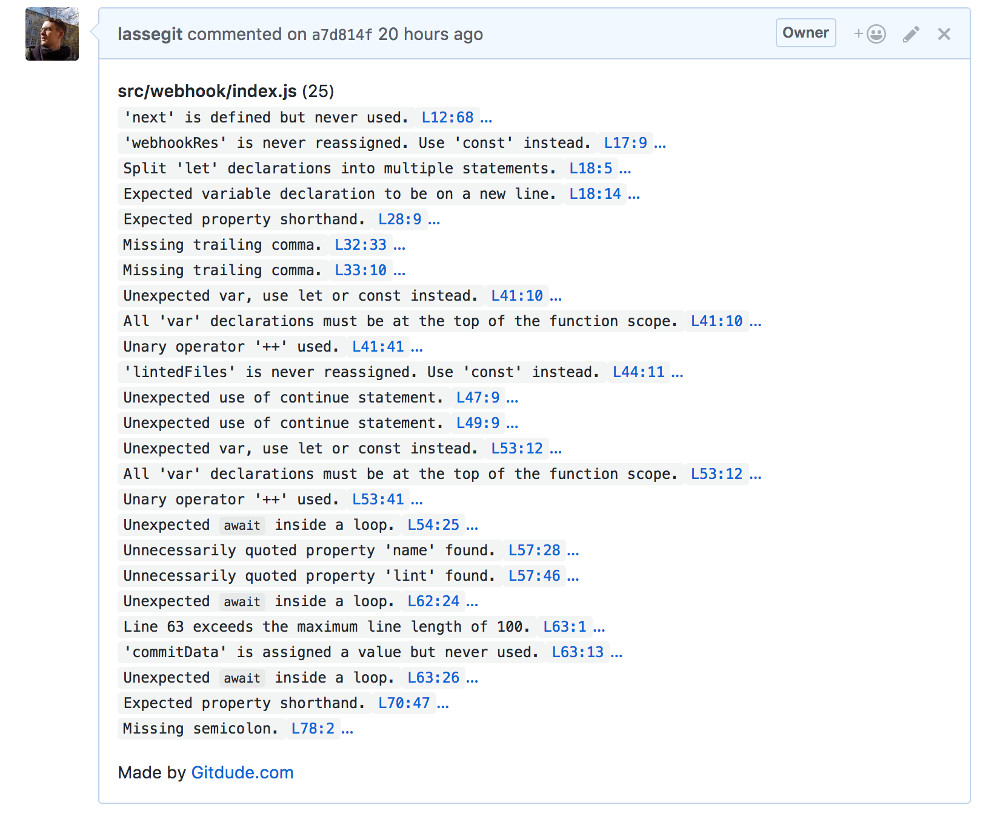
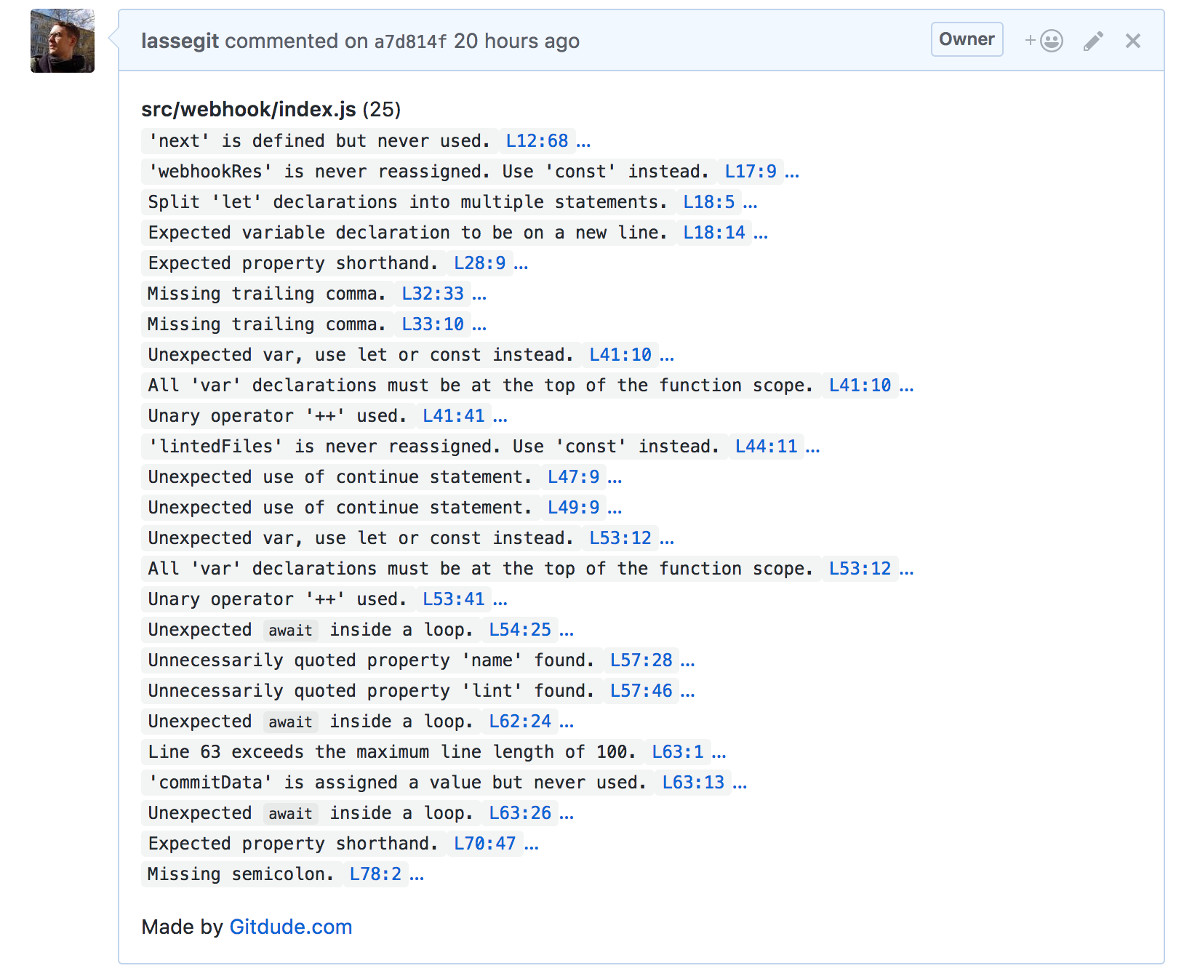
Newer example picture

diff --git a/README.md b/README.md
@@ -2,13 +2,7 @@
 
 Gitdude.com adds an unobtrusive comment on your commits with ESLint code improvement tips. It is easy to setup and helps improve your code. An example of a comment:
 
-![Example of gitdude.com](https://raw.githubusercontent.com/lassegit/gitdude.com/master/public/example.jpg | width=500)
-
-<img src="https://raw.githubusercontent.com/lassegit/gitdude.com/master/public/example.jpg" width="500">
-
-
-![](https://gyazo.com/eb5c5741b6a9a16c692170a41a49c858.png | width=100)
-
+<img src="https://raw.githubusercontent.com/lassegit/gitdude.com/master/public/example.jpg" width="666">
 
 
 ## Demo
